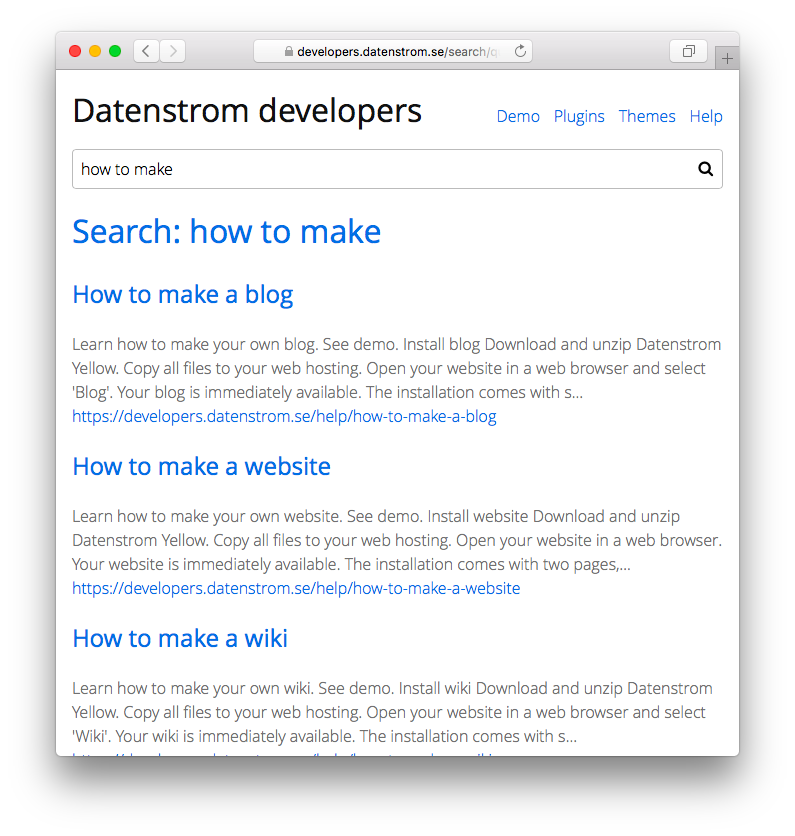
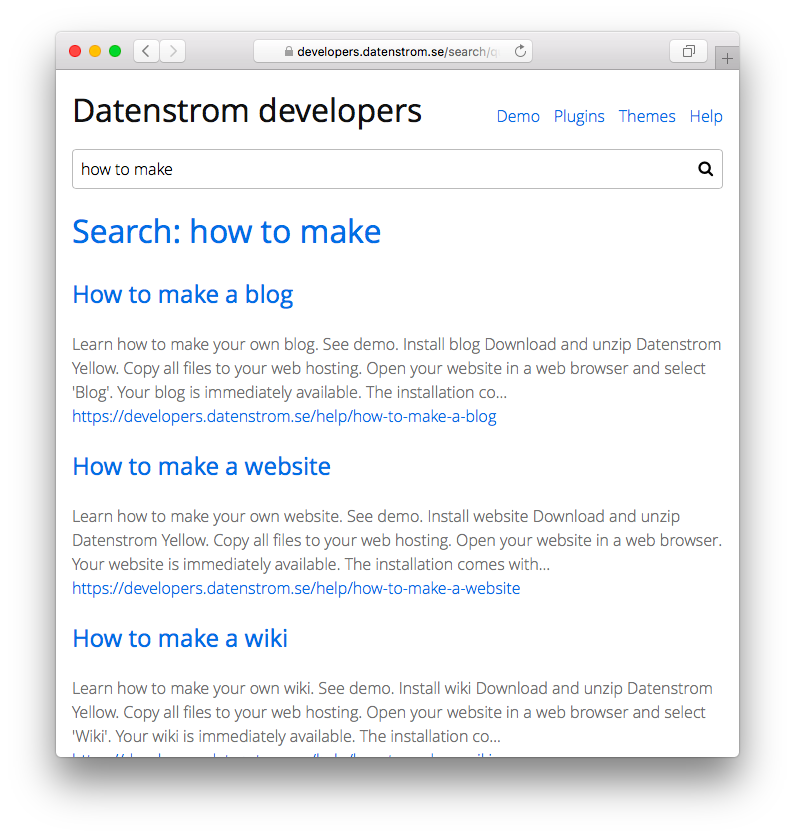
Update search

diff --git a/search/search.php b/search/search.php
@@ -5,7 +5,7 @@
 
 class YellowSearch
 {
-	const VERSION = "0.7.1";
+	const VERSION = "0.7.2";
 	var $yellow;			//access to API
 	
 	// Handle initialisation
@@ -14,7 +14,7 @@ class YellowSearch
 		$this->yellow = $yellow;
 		$this->yellow->config->setDefault("searchLocation", "/search/");
 		$this->yellow->config->setDefault("searchPaginationLimit", "5");
-		$this->yellow->config->setDefault("searchPageLength", "250");
+		$this->yellow->config->setDefault("searchPageLength", "240");
 	}
 	
 	// Handle page content parsing of custom block

diff --git a/search/README.md b/search/README.md
@@ -1,4 +1,4 @@
-Search plugin 0.7.1
+Search plugin 0.7.2
 ===================
 Full-text search. [See demo](https://developers.datenstrom.se/search/).
 
